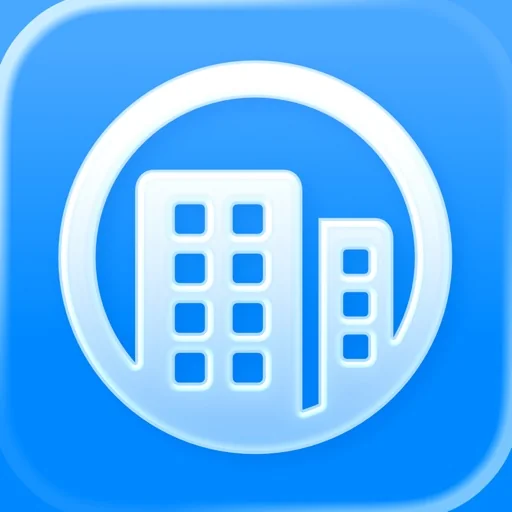
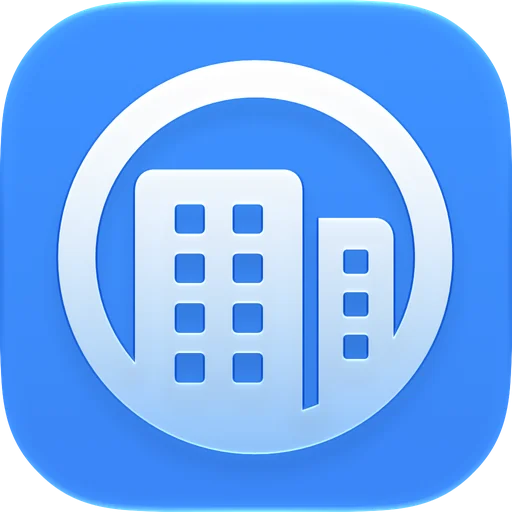
Fix images

diff --git a/apps.html b/apps.html
@@ -30,7 +30,7 @@
 </section>
 <section class="wrap app-grid" aria-label="All apps">
 <article class="app-card">
-<div class="catalog-art"><picture><source srcset="/images/apps/birthdays.webp" type="image/webp"><img src="/images/apps/birthdays.jpg" alt="Birthdays app icon" width="512" height="512" loading="lazy"></picture>
+<div class="catalog-art"><picture><source srcset="/images/apps/birthdays.webp" type="image/webp"><img src="/images/apps/birthdays.png" alt="Birthdays app icon" width="512" height="512" loading="lazy"></picture>
 </div>
 <div class="app-card-copy">
 <p class="platform">iOS &amp; macOS
@@ -42,7 +42,7 @@
 </div>
 </article>
 <article class="app-card">
-<div class="catalog-art"><picture><source srcset="/images/apps/countdowns.webp" type="image/webp"><img src="/images/apps/countdowns.jpg" alt="Countdowns app icon" width="512" height="512" loading="lazy"></picture>
+<div class="catalog-art"><picture><source srcset="/images/apps/countdowns.webp" type="image/webp"><img src="/images/apps/countdowns.png" alt="Countdowns app icon" width="512" height="512" loading="lazy"></picture>
 </div>
 <div class="app-card-copy">
 <p class="platform">iOS, macOS, &amp; watchOS
@@ -57,7 +57,7 @@
 </div>
 </article>
 <article class="app-card">
-<div class="catalog-art"><picture><source srcset="/images/apps/gift-suggester.webp" type="image/webp"><img src="/images/apps/gift-suggester.png" alt="Gift Suggester app icon" width="180" height="180" loading="lazy"></picture>
+<div class="catalog-art"><picture><source srcset="/images/apps/gift-suggester.webp" type="image/webp"><img src="/images/apps/gift-suggester.png" alt="Gift Suggester app icon" width="512" height="512" loading="lazy"></picture>
 </div>
 <div class="app-card-copy">
 <p class="platform">Android, iOS, &amp; Web
@@ -73,7 +73,7 @@
 </div>
 </article>
 <article class="app-card">
-<div class="catalog-art"><picture><source srcset="/images/apps/house-manager.webp" type="image/webp"><img src="/images/apps/house-manager.jpg" alt="House Manager app icon" width="512" height="512" loading="lazy"></picture>
+<div class="catalog-art"><picture><source srcset="/images/apps/house-manager.webp" type="image/webp"><img src="/images/apps/house-manager.png" alt="House Manager app icon" width="512" height="512" loading="lazy"></picture>
 </div>
 <div class="app-card-copy">
 <p class="platform">iOS &amp; macOS
@@ -88,7 +88,7 @@
 </div>
 </article>
 <article class="app-card">
-<div class="catalog-art"><picture><source srcset="/images/apps/in-season.webp" type="image/webp"><img src="/images/apps/in-season.jpg" alt="In Season: Produce Calendar app icon" width="512" height="512" loading="lazy"></picture>
+<div class="catalog-art"><picture><source srcset="/images/apps/in-season.webp" type="image/webp"><img src="/images/apps/in-season.png" alt="In Season: Produce Calendar app icon" width="512" height="512" loading="lazy"></picture>
 </div>
 <div class="app-card-copy">
 <p class="platform">iOS
@@ -100,7 +100,7 @@
 </div>
 </article>
 <article class="app-card">
-<div class="catalog-art"><picture><source srcset="/images/apps/office-tracker.webp" type="image/webp"><img src="/images/apps/office-tracker.jpg" alt="Office Tracker app icon" width="512" height="512" loading="lazy"></picture>
+<div class="catalog-art"><picture><source srcset="/images/apps/office-tracker.webp" type="image/webp"><img src="/images/apps/office-tracker.png" alt="Office Tracker app icon" width="512" height="512" loading="lazy"></picture>
 </div>
 <div class="app-card-copy">
 <p class="platform">iOS
@@ -112,7 +112,7 @@
 </div>
 </article>
 <article class="app-card">
-<div class="catalog-art"><picture><source srcset="/images/apps/paws.webp" type="image/webp"><img src="/images/apps/paws.jpg" alt="Paws: Dog Care Tracker app icon" width="512" height="512" loading="lazy"></picture>
+<div class="catalog-art"><picture><source srcset="/images/apps/paws.webp" type="image/webp"><img src="/images/apps/paws.png" alt="Paws: Dog Care Tracker app icon" width="512" height="512" loading="lazy"></picture>
 </div>
 <div class="app-card-copy">
 <p class="platform">iOS
@@ -124,7 +124,7 @@
 </div>
 </article>
 <article class="app-card">
-<div class="catalog-art"><picture><source srcset="/images/apps/progress.webp" type="image/webp"><img src="/images/apps/progress.jpg" alt="Progress app icon" width="512" height="512" loading="lazy"></picture>
+<div class="catalog-art"><picture><source srcset="/images/apps/progress.webp" type="image/webp"><img src="/images/apps/progress.png" alt="Progress app icon" width="512" height="512" loading="lazy"></picture>
 </div>
 <div class="app-card-copy">
 <p class="platform">iOS &amp; macOS
@@ -139,7 +139,7 @@
 </div>
 </article>
 <article class="app-card">
-<div class="catalog-art"><picture><source srcset="/images/apps/recurrence.webp" type="image/webp"><img src="/images/apps/recurrence.jpg" alt="Recurrence app icon" width="512" height="512" loading="lazy"></picture>
+<div class="catalog-art"><picture><source srcset="/images/apps/recurrence.webp" type="image/webp"><img src="/images/apps/recurrence.png" alt="Recurrence app icon" width="512" height="512" loading="lazy"></picture>
 </div>
 <div class="app-card-copy">
 <p class="platform">iOS &amp; macOS
@@ -154,7 +154,7 @@
 </div>
 </article>
 <article class="app-card">
-<div class="catalog-art"><picture><source srcset="/images/apps/school-days.webp" type="image/webp"><img src="/images/apps/school-days.jpg" alt="School Days app icon" width="512" height="512" loading="lazy"></picture>
+<div class="catalog-art"><picture><source srcset="/images/apps/school-days.webp" type="image/webp"><img src="/images/apps/school-days.png" alt="School Days app icon" width="512" height="512" loading="lazy"></picture>
 </div>
 <div class="app-card-copy">
 <p class="platform">iOS, macOS, &amp; watchOS
@@ -166,7 +166,7 @@
 </div>
 </article>
 <article class="app-card">
-<div class="catalog-art"><picture><source srcset="/images/apps/week-ahead.webp" type="image/webp"><img src="/images/apps/week-ahead.jpg" alt="Week Ahead app icon" width="512" height="512" loading="lazy"></picture>
+<div class="catalog-art"><picture><source srcset="/images/apps/week-ahead.webp" type="image/webp"><img src="/images/apps/week-ahead.png" alt="Week Ahead app icon" width="512" height="512" loading="lazy"></picture>
 </div>
 <div class="app-card-copy">
 <p class="platform">iOS
@@ -178,7 +178,7 @@
 </div>
 </article>
 <article class="app-card">
-<div class="catalog-art"><picture><source srcset="/images/apps/working-days.webp" type="image/webp"><img src="/images/apps/working-days.jpg" alt="Working Days app icon" width="512" height="512" loading="lazy"></picture>
+<div class="catalog-art"><picture><source srcset="/images/apps/working-days.webp" type="image/webp"><img src="/images/apps/working-days.png" alt="Working Days app icon" width="512" height="512" loading="lazy"></picture>
 </div>
 <div class="app-card-copy">
 <p class="platform">iOS, macOS, &amp; watchOS

diff --git a/index.html b/index.html
@@ -63,11 +63,11 @@
 </div>
 <div class="hero-orbit orbit-two">
 </div>
-<div class="hero-icon hero-icon-main"><picture><source srcset="/images/apps/week-ahead.webp" type="image/webp"><img src="/images/apps/week-ahead.jpg" alt="Week Ahead app icon" width="512" height="512" loading="eager" fetchpriority="high"></picture>
+<div class="hero-icon hero-icon-main"><picture><source srcset="/images/apps/week-ahead.webp" type="image/webp"><img src="/images/apps/week-ahead.png" alt="Week Ahead app icon" width="512" height="512" loading="eager" fetchpriority="high"></picture>
 </div>
-<div class="hero-icon hero-icon-small"><picture><source srcset="/images/apps/countdowns.webp" type="image/webp"><img src="/images/apps/countdowns.jpg" alt="Countdowns app icon" width="512" height="512" loading="eager"></picture>
+<div class="hero-icon hero-icon-small"><picture><source srcset="/images/apps/countdowns.webp" type="image/webp"><img src="/images/apps/countdowns.png" alt="Countdowns app icon" width="512" height="512" loading="eager"></picture>
 </div>
-<div class="hero-icon hero-icon-home"><picture><source srcset="/images/apps/house-manager.webp" type="image/webp"><img src="/images/apps/house-manager.jpg" alt="House Manager app icon" width="512" height="512" loading="eager"></picture>
+<div class="hero-icon hero-icon-home"><picture><source srcset="/images/apps/house-manager.webp" type="image/webp"><img src="/images/apps/house-manager.png" alt="House Manager app icon" width="512" height="512" loading="eager"></picture>
 </div>
 </div>
 </section>
@@ -87,12 +87,12 @@
 <p class="platform">iOS
 </p><a class="text-link" href="https://apps.apple.com/app/apple-store/id6766713902">App Store <span aria-hidden="true">↗</span><span class="sr-only"> for Week Ahead</span></a>
 </div>
-<div class="feature-art"><picture><source srcset="/images/apps/week-ahead.webp" type="image/webp"><img src="/images/apps/week-ahead.jpg" alt="Week Ahead app icon" width="512" height="512" loading="lazy"></picture>
+<div class="feature-art"><picture><source srcset="/images/apps/week-ahead.webp" type="image/webp"><img src="/images/apps/week-ahead.png" alt="Week Ahead app icon" width="512" height="512" loading="lazy"></picture>
 </div>
 </article>
 <div class="feature-pair">
 <article class="feature feature-countdowns">
-<div class="small-feature-art"><picture><source srcset="/images/apps/countdowns.webp" type="image/webp"><img src="/images/apps/countdowns.jpg" alt="Countdowns app icon" width="512" height="512" loading="lazy"></picture>
+<div class="small-feature-art"><picture><source srcset="/images/apps/countdowns.webp" type="image/webp"><img src="/images/apps/countdowns.png" alt="Countdowns app icon" width="512" height="512" loading="lazy"></picture>
 </div>
 <div class="feature-copy">
 <h3>Something to look forward to.
@@ -107,7 +107,7 @@
 </div>
 </article>
 <article class="feature feature-house">
-<div class="small-feature-art"><picture><source srcset="/images/apps/house-manager.webp" type="image/webp"><img src="/images/apps/house-manager.jpg" alt="House Manager app icon" width="512" height="512" loading="lazy"></picture>
+<div class="small-feature-art"><picture><source srcset="/images/apps/house-manager.webp" type="image/webp"><img src="/images/apps/house-manager.png" alt="House Manager app icon" width="512" height="512" loading="lazy"></picture>
 </div>
 <div class="feature-copy">
 <h3>A place for every home detail.

diff --git a/css/style.css b/css/style.css
@@ -189,10 +189,7 @@ p {
 
 .hero-icon {
   position:absolute;
-  overflow:hidden;
-  border-radius:26%;
-  background:#fafafa;
-  box-shadow:0 16px 34px #313b6617;
+  filter:drop-shadow(0 16px 34px #313b6617);
 }
 
 .hero-icon img {
@@ -286,7 +283,6 @@ p {
 .feature-art img {
   width: min(100%, 240px);
   margin-inline: auto;
-  border-radius: 22%;
 }
 
 .feature-pair {
@@ -319,7 +315,6 @@ p {
 
 .small-feature-art img {
   width: 112px;
-  border-radius: 22%;
 }
 
 .site-footer {
@@ -410,7 +405,6 @@ p {
 .catalog-art img {
   width: min(100%, 144px);
   margin-inline: auto;
-  border-radius: 22%;
 }
 
 .app-card-copy {

diff --git a/support.html b/support.html
@@ -47,7 +47,7 @@
 </li>
 </ul>
 </nav>
-<div class="prose support-prose">
+<div class="prose">
 <h2 id="icloud_sync">iCloud Sync
 </h2>
 <p>If data is not syncing seamlessly across your devices, please follow the steps below on each of your devices.
